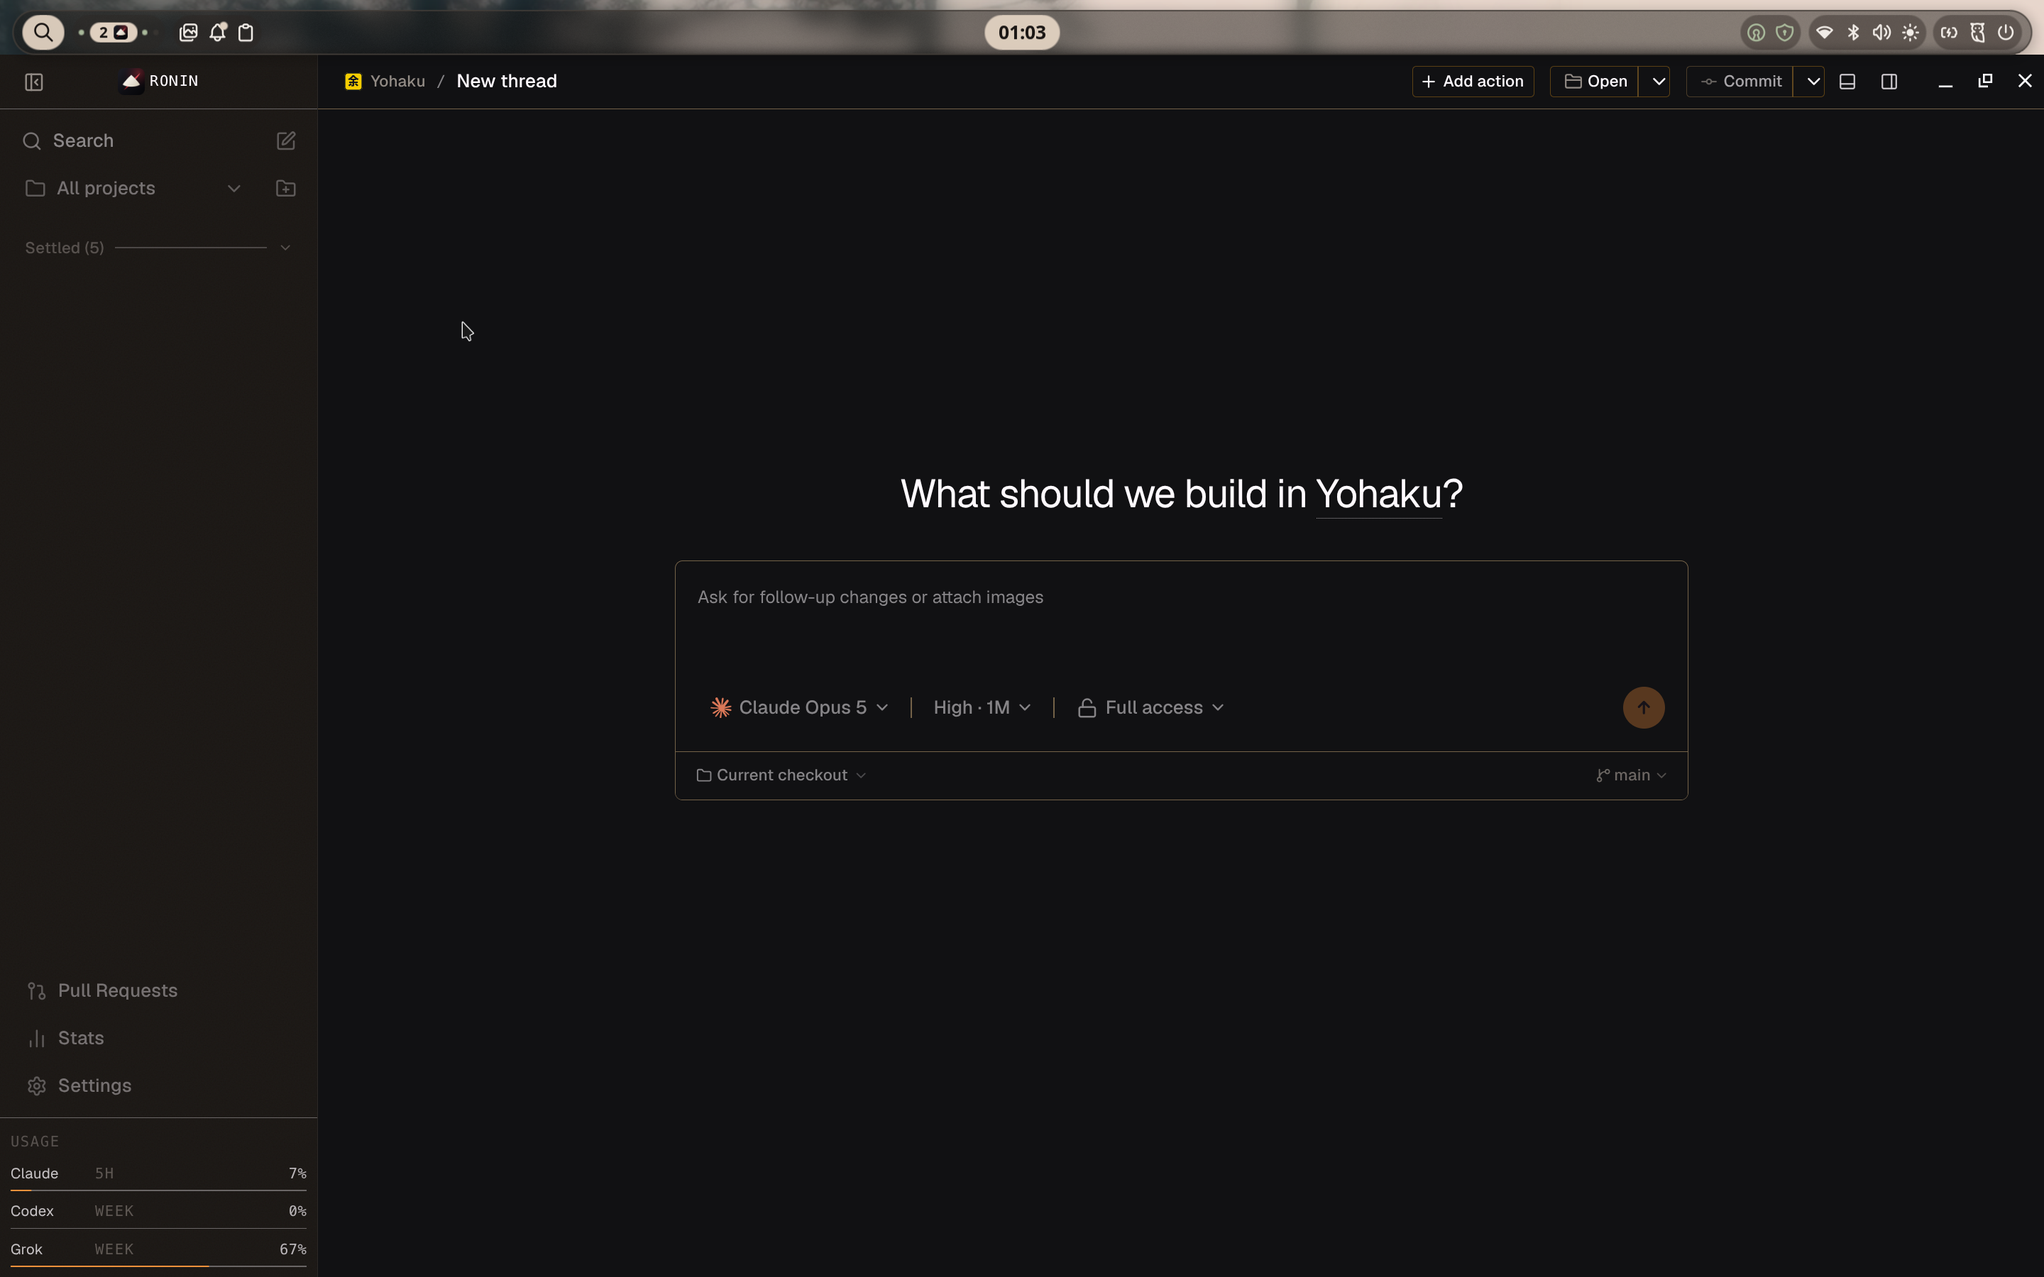
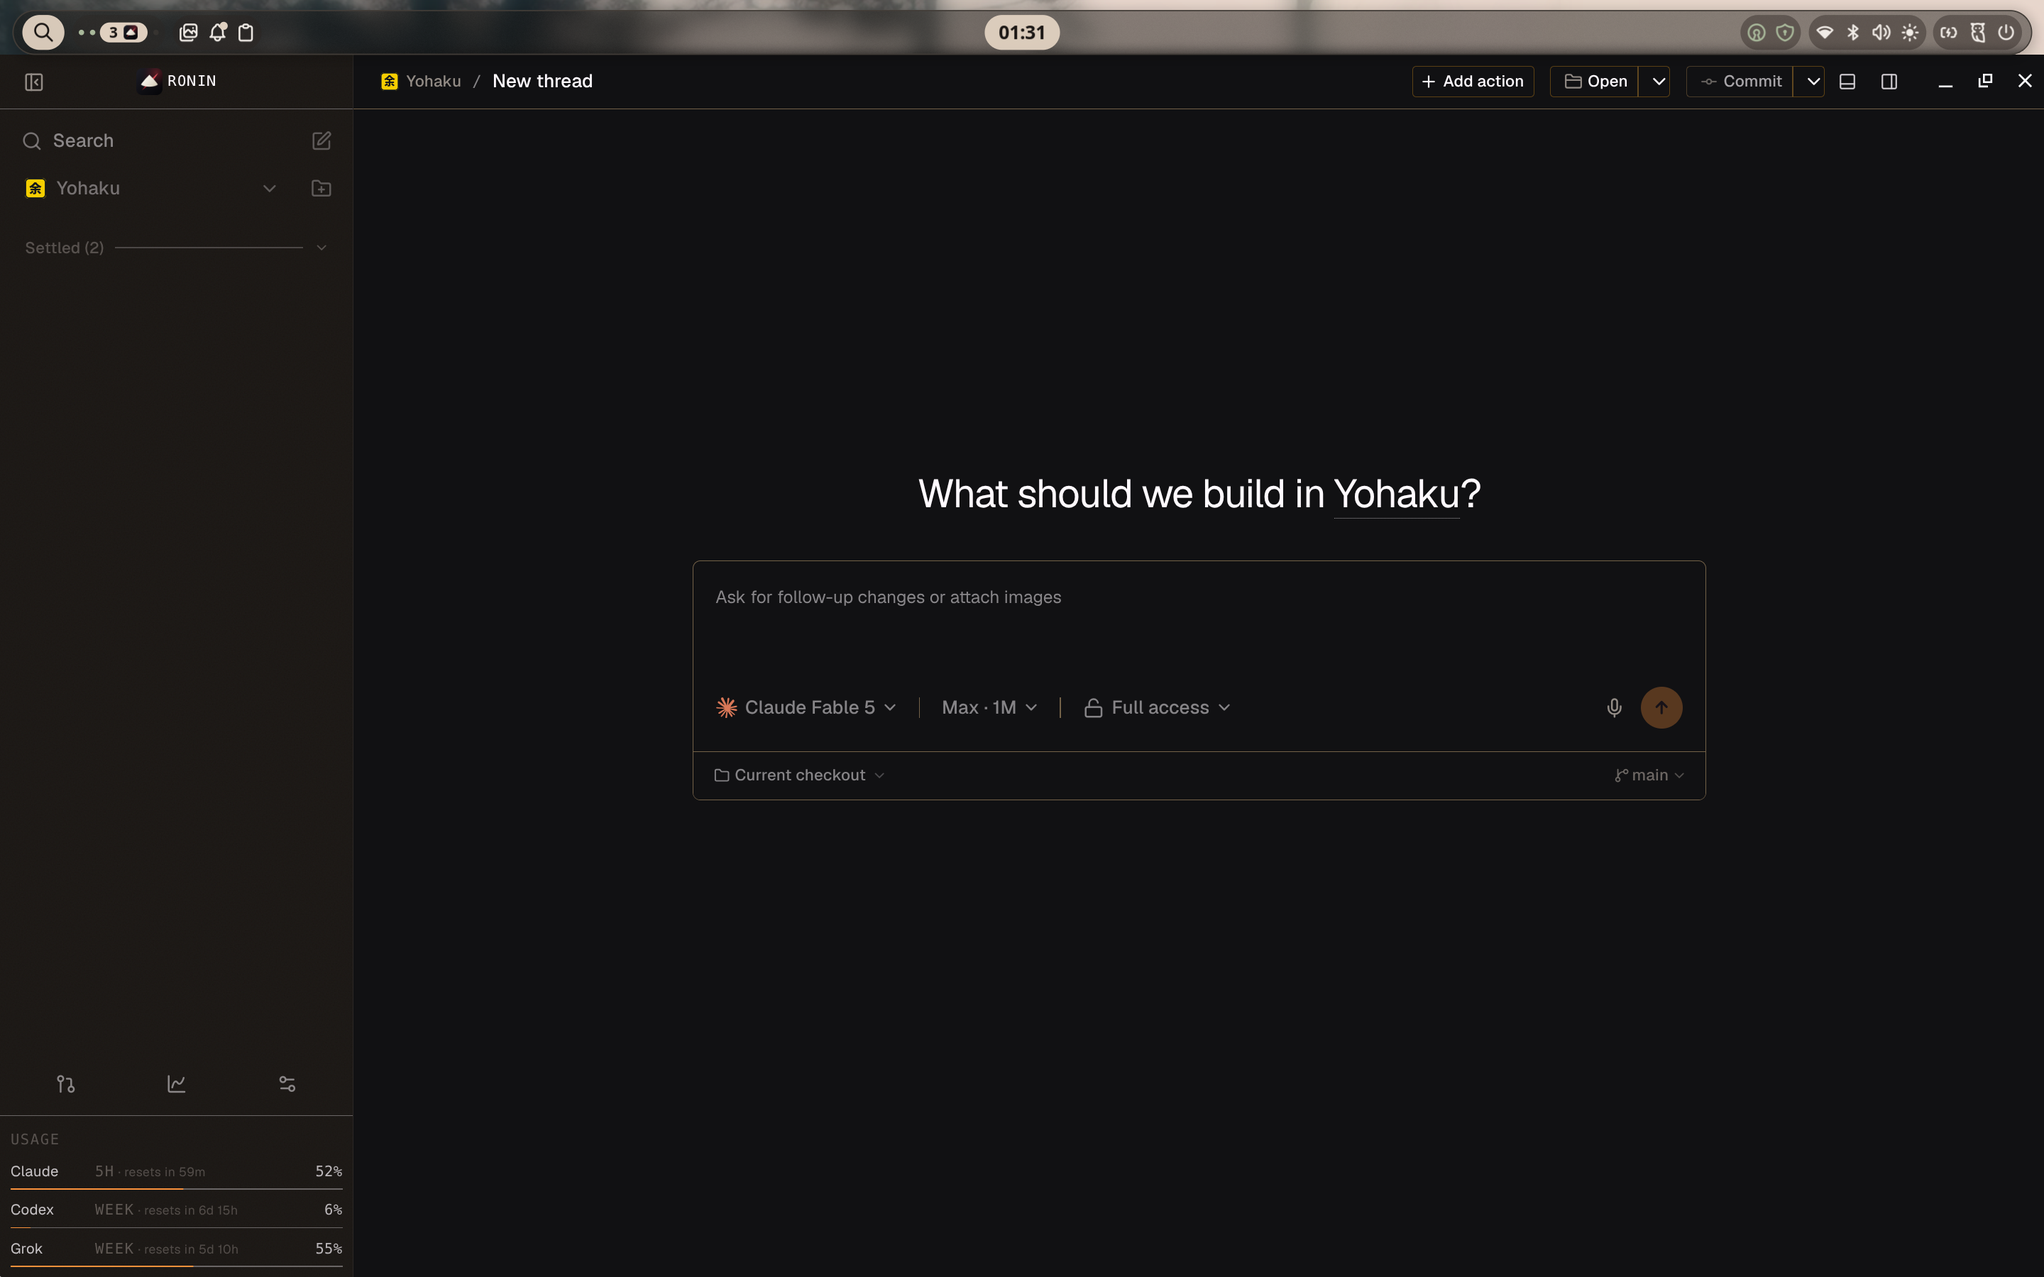
docs(readme): lead with features instead of the fork diff
The old README spent its center of gravity on a T3 Code comparison
table. New structure sells the product first: provider switching, the
stats page, git, themes, portable skills, remote pairing — then the
architecture, run instructions, and a compressed lineage section that
keeps full credit to T3 Code and Synara.

diff --git a/README.md b/README.md
@@ -10,21 +10,80 @@
 </p>
 
 <p align="center">
+  <a href="#the-good-stuff">Features</a> ·
   <a href="#gallery">Gallery</a> ·
-  <a href="#how-ronin-differs-from-t3-code">Why Ronin</a> ·
   <a href="#run-it">Run it</a> ·
-  <a href="#documentation">Docs</a>
+  <a href="#documentation">Docs</a> ·
+  <a href="#lineage">Lineage</a>
 </p>
 
 ---
 
-Ronin is a **lean desktop harness** for coding agents — rebuilt UI, thinner surface, same sharp forge.
+**One desktop app for every coding agent you pay for.**
 
-Drive the CLIs you already pay for (Codex, Claude Code, Cursor, Grok Build, OpenCode, Antigravity, Droid, Kilo, Pi) from a dark-first Electron shell: chat, terminal, preview, **git**, usage, and settings. Bring your own subscription. Nothing is sold here.
+Codex, Claude Code, Cursor, Grok Build, OpenCode, Antigravity, Droid, Kilo, Pi — nine CLIs, one dark-first Electron workspace. Chat, terminal, preview, git, pull requests, stats, themes. Bring your own subscriptions; Ronin sells you nothing and phones home to no one. Everything runs on your machine, and the whole thing is open source.
 
-And you are not married to the agent you started with — **hand a live thread to a different provider mid-conversation** and it picks up where the last one left off. [How it works ↓](#switch-provider-mid-thread)
+If the CLI works in a terminal, Ronin can drive it.
 
-This tree is a **fork of [T3 Code](https://github.com/pingdotgg/t3code)** — event-sourced server, multi-provider adapters, remote-ready websockets — re-cut and re-skinned for a masterless desktop.
+---
+
+## The good stuff
+
+### 🔄 Switch providers mid-thread
+
+The feature no other harness has: **hand a live conversation to a different agent and it keeps going.** Start with Codex, hit a wall, hand the thread to Claude — same history, same checkpoints, same working directory.
+
+- An agent that's been in the thread before **resumes its own session** and catches up on what it missed.
+- A newcomer gets **a brief built from the thread itself** — the conversation so far, the branch, the files already changed.
+- The transcript marks every handover, and each provider keeps its own place in the thread, so switching back later resumes rather than re-briefs.
+
+No copy-pasting context between terminals. Ever again. ([docs](./docs/user/switching-providers.md))
+
+### 📊 Stats that count everything
+
+The Stats page reads each provider CLI's **own session transcripts** — so every token is counted, including the turns you ran in a bare terminal, on every connected machine, deduplicated across environments. API-equivalent cost, cache savings, per-model breakdowns, and an hourly-resolution chart for the last 24 hours.
+
+Every provider owns one color across the whole page — chart, share bars, tables — in a palette validated for color-blind safety in light and dark alike. Grok even records its **exact** per-turn cost in an undocumented tick format; we reverse-engineered it, so that dollar figure is real, not an estimate.
+
+And in your peripheral vision: the sidebar meter shows how much of each subscription window is left and **when it resets, to the minute** — so you know if you can keep working for the next hour without opening anything.
+
+### 🔀 Git as a first-class citizen
+
+Not a plugin. Not a tab you forget exists.
+
+- **Checkpoints** — every turn ends with a hidden git ref, so you can diff or restore anything an agent did.
+- **Commit, branch, discard, worktrees** — right in the workspace topbar.
+- **Pull requests** — list them across every connected server, filter, react, edit in place, review diffs without leaving the app.
+
+### 🎨 Themes that go deep
+
+First-party themes (Tsukimi, Aizome, Urushi, the pure-black **OLED Void** family) — plus **Open VSX theme search**: pull almost any VS Code theme straight into Ronin. Import your own, tune the typography, keep light and dark mode intact per theme.
+
+### 🧰 Skills and slash commands, portable across agents
+
+Drop a `SKILL.md` in `~/.ronin/skills` once and **every provider can use it** — Codex, Claude, Grok, all of them. Same for slash commands: `/clear`, `/compact`, `/model`, `/review`, `/fork`, `/status` and friends work everywhere, alongside each provider's native commands. ([skills](./docs/user/agent-skills.md) · [commands](./docs/user/slash-commands.md))
+
+### 📱 Remote from anywhere
+
+The server speaks typed WebSockets, and pairing is one command:
+
+```bash
+npx t3 pair --tailscale
+```
+
+Scan the QR code and your phone is driving the same threads, over your tailnet, end-to-end on hardware you own. LAN and SSH work too. ([docs](./docs/user/remote-access.md))
+
+### ⚡ Performance without compromise
+
+No GPU-pegging animations, no token-by-token repaint storms, no lying spinners. Buffered assistant output, careful WebSocket payloads, lists that stay fast at thousands of threads. Ronin's users drive agents all day and notice a dropped frame — so we don't drop them.
+
+### And the rest
+
+- **Live preview** — tabs, navigation, screenshots, recordings of the app your agent is building
+- **Composer-first workspace** — "What should we build?" with provider, model, effort and plan controls in one card
+- **Markdown that renders** — images, diffs, code, all inline in the transcript
+- **Editor hand-off** — Ronin finds your installed editors and opens any file where you actually work
+- **Permission modes** — decide how much rope each agent gets ([docs](./docs/user/permission-modes.md))
 
 ---
 
@@ -38,69 +97,20 @@ This tree is a **fork of [T3 Code](https://github.com/pingdotgg/t3code)** — ev
 <br/>
 
 <p align="center">
-  <img src="Screenshots/Themes.png" alt="Ronin Appearance settings — color scheme, built-in themes including OLED Void" width="920" />
+  <img src="Screenshots/Usage.png" alt="Ronin Stats page — theme-aware provider charts, cost and token breakdowns" width="920" />
 </p>
-<p align="center"><sub><strong>Appearance</strong> — system / light / dark, first-party themes (Tsukimi, Aizome, Urushi, OLED Void…), typography you can tune.</sub></p>
+<p align="center"><sub><strong>Stats</strong> — spend and tokens by provider and model, theme-aware charts, cache savings, hourly resolution.</sub></p>
 
 <br/>
 
 <p align="center">
-  <img src="Screenshots/Usage.png" alt="Ronin Usage page — token cost charts and model breakdown" width="920" />
+  <img src="Screenshots/Themes.png" alt="Ronin Appearance settings — color scheme, built-in themes including OLED Void, Open VSX search" width="920" />
 </p>
-<p align="center"><sub><strong>Usage</strong> — spend and tokens by provider and model, with a one-click path back to the editor.</sub></p>
+<p align="center"><sub><strong>Appearance</strong> — system / light / dark, first-party themes, OLED blacks, Open VSX theme search.</sub></p>
 
 ---
 
-## How Ronin differs from T3 Code
-
-T3 Code is an excellent open product with a wide surface. Ronin is that product after a deliberate **cut** — and a **full UI pass**.
-
-|                      | **T3 Code**                                            | **Ronin**                                                                        |
-| -------------------- | ------------------------------------------------------ | -------------------------------------------------------------------------------- |
-| **UI**               | Classic T3 shell                                       | **New workspace chrome** — slim sidebar, hairline topbar, calmer density         |
-| **Identity**         | Broad agent control surface                            | Desktop-first fork with a sharper edge                                           |
-| **Product surface**  | Desktop + local web + cloud/Connect + mobile/marketing | Desktop + local server/renderer only                                             |
-| **Windows / WSL**    | Dual backend, WSL distro orchestration                 | Native backends only — **no WSL**                                                |
-| **Preview**          | Element pick, PiP, Playwright automation               | Tabs, navigate, screenshot, recording                                            |
-| **Sidebar**          | Legacy tree toggle + modern cards                      | **One modern sidebar** — no legacy tree                                          |
-| **Assistant output** | Optional token-by-token streaming                      | **Buffered only** — cleaner read path                                            |
-| **Provider binding** | Fixed once a thread starts                             | **Switchable mid-thread** — the conversation is carried over                     |
-| **Themes**           | Managed palettes                                       | Managed + **deep OLED** (Void, Azure, Phosphor, Plasma…) + **Ronin** brand theme |
-| **Git**              | Full source control                                    | **Kept** — checkpoints, diffs, branches, PR flows                                |
-| **Packaging**        | Multi-platform + WSL prebuilds                         | **Linux-first**, Mac supported; artifacts named **Ronin**                        |
-| **Philosophy**       | Feature-rich open default                              | _Measure twice, cut once_                                                        |
-
-### UI that changed
-
-- **Workspace shell** — resizable left rail, floating collapse control, single topbar strip for chat / settings / usage
-- **Composer-first empty state** — “What should we build in …?” with provider, effort, and plan controls in one card
-- **Git in the chrome** — Open / Commit (and related actions) live in the workspace topbar, not buried
-- **Settings as a place** — Appearance, providers, source control, connections in a dedicated nav (not a grab bag)
-- **Usage as a first-class page** — charts, model breakdown, **Back to editor**
-
-### What we cut
-
-- **T3 Connect / hosted relay** — no cloud pairing product, no Clerk-shaped hosted path
-- **Mobile app & marketing site** — not in this repo
-- **WSL as a second OS** — no `wsl.exe` orchestrator, distro picker, or dual Windows+Linux backend
-- **Playwright preview fat** — no element pick, no PiP window, no injected automation runtime
-- **Legacy sidebar** — original per-project tree UI and its settings toggle
-- **Legacy token streaming** — token-by-token paint path removed; assistants buffer cleanly
-- **Packaging ballast** — WSL node-pty prebuild job, dual-OS Windows stage deps for WSL
-
-### What we keep (on purpose)
-
-- **Git features** — checkpoints, restore, diffs, worktrees, source control UI, PRs
-- **Multi-provider agents** — Codex · Claude · Cursor · Grok · OpenCode · Antigravity · Droid · Kilo · Pi
-- **Remote-ready architecture** — local, LAN, Tailscale / SSH
-- **Performance posture** — no continuous GPU-burning chrome; careful websocket + render cost
-- **Open source** — forkable, inspectable, yours
-
-> Ronin is not “T3 Code but worse.” It is **T3 Code with the masterless cut**: fewer doors, same forge, new face.
-
----
-
-## What you get
+## How it's built
 
 ```
 ┌─────────────────────────────────────────────────────────┐
@@ -108,7 +118,7 @@ T3 Code is an excellent open product with a wide surface. Ronin is that product 
 │  ┌──────────┐  ┌────────────────────────────────────┐   │
 │  │ Sidebar  │  │ Workspace topbar · git · panels    │   │
 │  │ Threads  │  │ Chat · composer · terminal         │   │
-│  │ PRs ·    │  │ Usage · Settings · OLED themes     │   │
+│  │ PRs ·    │  │ Stats · Settings · OLED themes     │   │
 │  │ Usage    │  └──────────────────▲─────────────────┘   │
 │  └────┬─────┘                     │                     │
 │       │ typed WS / IPC            │                     │
@@ -119,28 +129,7 @@ T3 Code is an excellent open product with a wide surface. Ronin is that product 
 └─────────────────────────────────────────────────────────┘
 ```
 
-- **Desktop app** — primary surface (Electron embeds the web renderer)
-- **Local server** — Node backend on your machine
-- **Your providers** — if the CLI works in a terminal, Ronin can drive it
-- **Source control** — first-class git, not an afterthought
-- **Provider switching** — hand a live thread from one agent to another; it resumes its own session, or reads a brief of the conversation and the files changed so far ([docs](./docs/user/switching-providers.md))
-- **Agent skills** — reusable `SKILL.md` workflows, including a portable `~/.ronin/skills` folder that works on every provider ([docs](./docs/user/agent-skills.md))
-- **Slash commands** — `/clear`, `/compact`, `/model`, `/review`, `/fork`, `/status` and friends, alongside your provider's own commands ([docs](./docs/user/slash-commands.md))
-
----
-
-## Switch provider mid-thread
-
-Every other harness binds a thread to the agent that opened it. Ronin does not. Pick another provider in the composer, confirm, and the next message goes to the new agent — same thread, same history, same checkpoints.
-
-- **Been here before?** It resumes its own session and only catches up on what it missed while it was away.
-- **New to the thread?** It starts fresh and reads a brief built from the thread itself — the conversation, the working directory and branch, and the files changed so far.
-
-The transcript marks the handover, so you always know who wrote what. Switching back later resumes the earlier agent rather than re-briefing it; each provider keeps its own place in the thread.
-
-> Ronin asks before a handover: the incoming agent writes code its own way, so later edits can drift from the approach already in your files.
-
-Full details: [docs/user/switching-providers.md](./docs/user/switching-providers.md).
+An event-sourced Node server wraps the provider CLIs as subprocesses; per-provider adapters translate their native protocols into one orchestration model. Commands become events, events become the UI you see, and every turn checkpoints. The desktop shell embeds the web renderer — which is also how your phone connects remotely. Deep dive: [docs/internals/overview.md](./docs/internals/overview.md).
 
 ---
 
@@ -161,7 +150,7 @@ Full details: [docs/user/switching-providers.md](./docs/user/switching-providers
 > | Kilo        | [Kilo CLI](https://kilo.ai/cli)                             | `kilo` auth                 |
 > | Pi          | [Pi](https://pi.dev/)                                       | `pi`                        |
 
-### From this fork
+### From source
 
 ```bash
 # Node 22.16+ / 23.11+ / 24.10+
@@ -183,17 +172,7 @@ vp run dist:desktop:linux          # primary path
 vp run dist:desktop:dmg:arm64      # macOS
 ```
 
-Artifacts ship as `Ronin-${version}-${arch}.${ext}`.
-
----
-
-## Themes
-
-Dark-first by default. Built-ins include **Ronin**, Paper, Graphite, Obsidian, Carbon, and pure-black **OLED Void** (plus Azure / Phosphor / Plasma siblings). Import or create your own. On Wayland+Vulkan, desktop softens glass so backdrop blur does not fall over.
-
-<p align="center">
-  <img src="Screenshots/Themes.png" alt="Theme picker" width="720" />
-</p>
+Artifacts ship as `Ronin-${version}-${arch}.${ext}`. Linux-first, Mac supported.
 
 ---
 
@@ -207,6 +186,7 @@ Dark-first by default. Built-ins include **Ronin**, Paper, Graphite, Obsidian, C
 | Agent skills       | [docs/user/agent-skills.md](./docs/user/agent-skills.md)               |
 | Slash commands     | [docs/user/slash-commands.md](./docs/user/slash-commands.md)           |
 | Source control     | [docs/user/source-control.md](./docs/user/source-control.md)           |
+| Stats & usage      | [docs/user/usage.md](./docs/user/usage.md)                             |
 | Remote / Tailscale | [docs/user/remote-access.md](./docs/user/remote-access.md)             |
 | Architecture       | [docs/internals/overview.md](./docs/internals/overview.md)             |
 | Glossary           | [docs/internals/glossary.md](./docs/internals/glossary.md)             |
@@ -215,19 +195,11 @@ Full tree: [docs/](./docs).
 
 ---
 
-## Status
-
-Early. Expect bugs. Prefer small fixes over grand PRs unless we ask.
-
-Read [CONTRIBUTING.md](./CONTRIBUTING.md) before opening an issue or PR.
-
----
-
 ## Lineage
 
-Ronin stands on **[T3 Code](https://github.com/pingdotgg/t3code)** by Theo and the T3 tools team.
+Ronin is a **fork of [T3 Code](https://github.com/pingdotgg/t3code)** by Theo and the T3 tools team — the event-sourced server, multi-provider adapters, and remote-ready architecture come from that excellent foundation. Ronin is the **masterless cut**: desktop-only, no hosted relay, no WSL orchestration, no mobile surface — a thinner blade with a full UI pass on top.
 
-Some later product surfaces — portable Agent skills, composer slash commands, and the extra providers Antigravity, Droid, Kilo, and Pi — were adapted from **[Synara](https://github.com/Emanuele-web04/synara)** by Emanuele. We kept Ronin’s existing Codex / Claude / Cursor / Grok / OpenCode adapters and its event-sourced core; Synara was the reference for how those extra tools should feel.
+Some later surfaces — portable agent skills, composer slash commands, and the Antigravity / Droid / Kilo / Pi providers — were adapted from **[Synara](https://github.com/Emanuele-web04/synara)** by Emanuele.
 
 ```
 upstream  →  pingdotgg/t3code
@@ -235,7 +207,15 @@ reference →  Emanuele-web04/synara
 this fork →  0veek/Ronin
 ```
 
-Screenshots live in [`Screenshots/`](./Screenshots) (`Code.png`, `Themes.png`, `Usage.png`).
+Curious exactly what was cut and why? The commit history tells the whole story.
+
+---
+
+## Status
+
+Early. Expect bugs. Prefer small fixes over grand PRs unless we ask.
+
+Read [CONTRIBUTING.md](./CONTRIBUTING.md) before opening an issue or PR.
 
 ---
 
